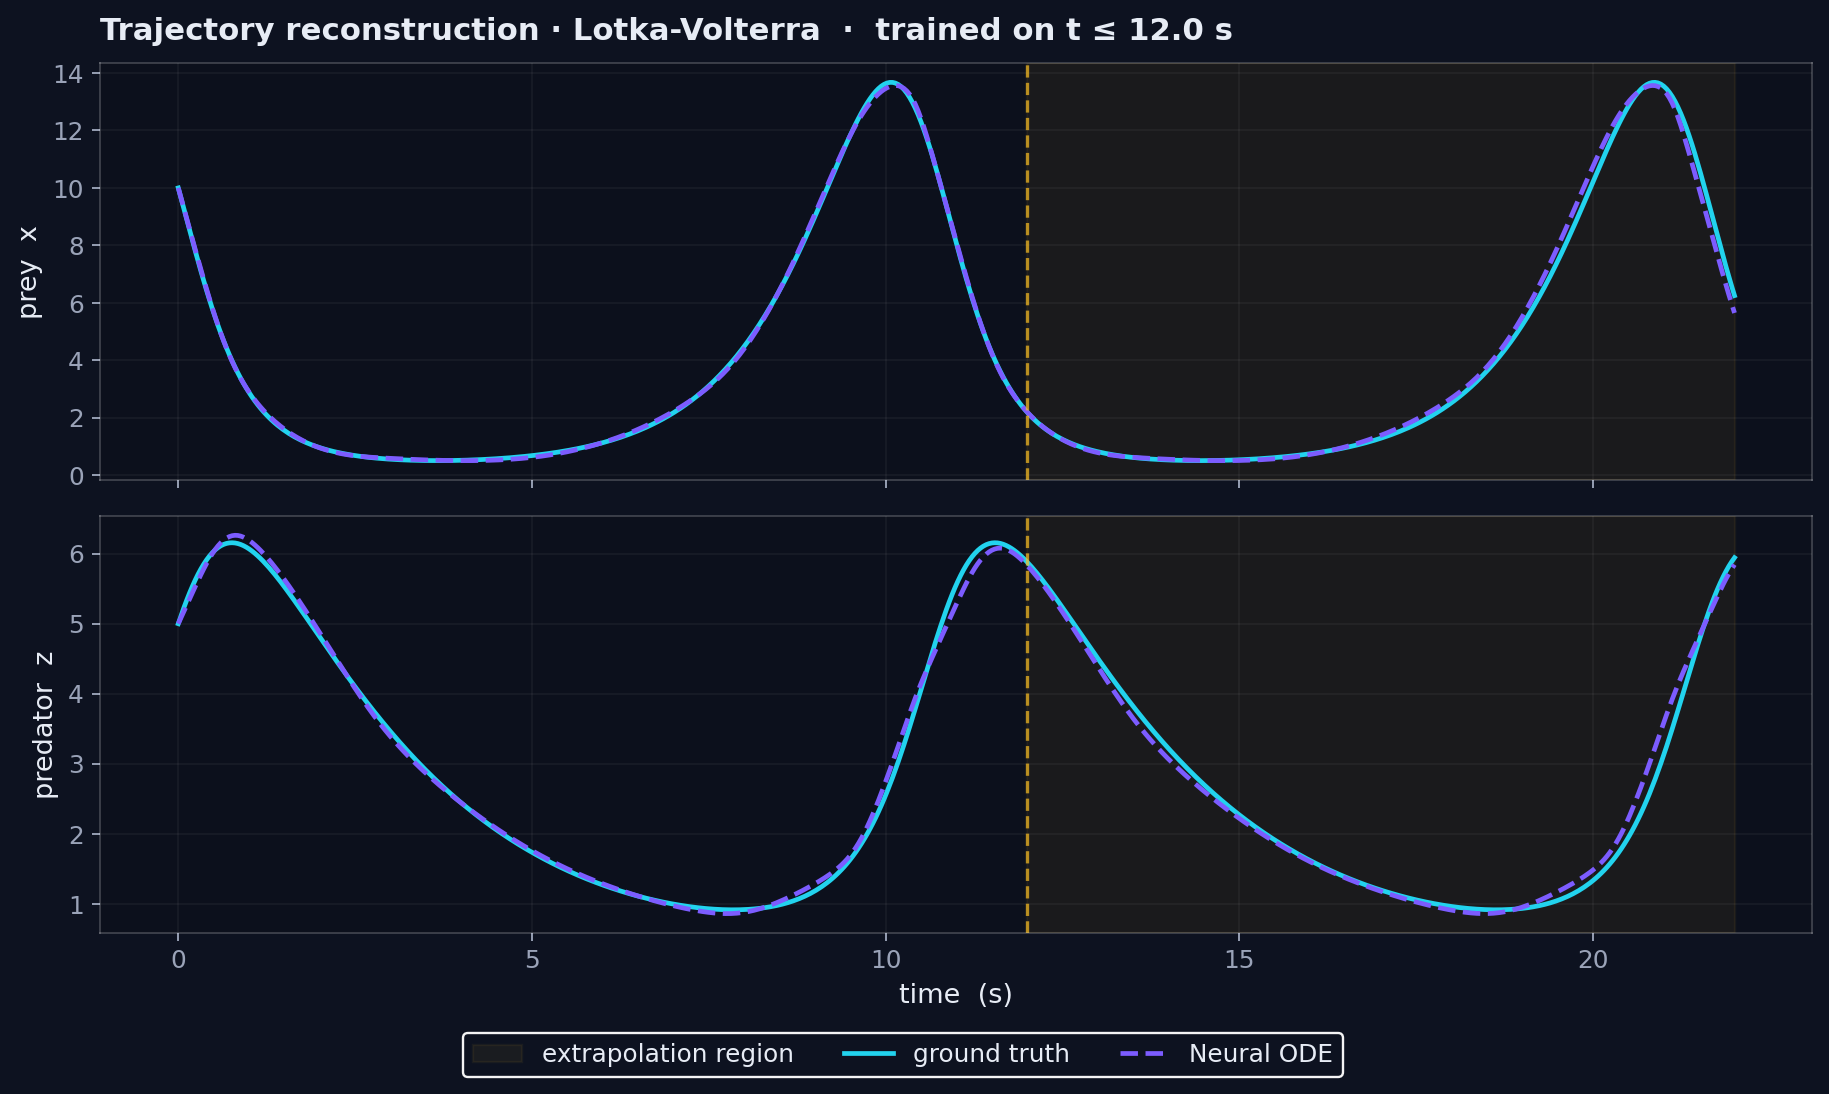
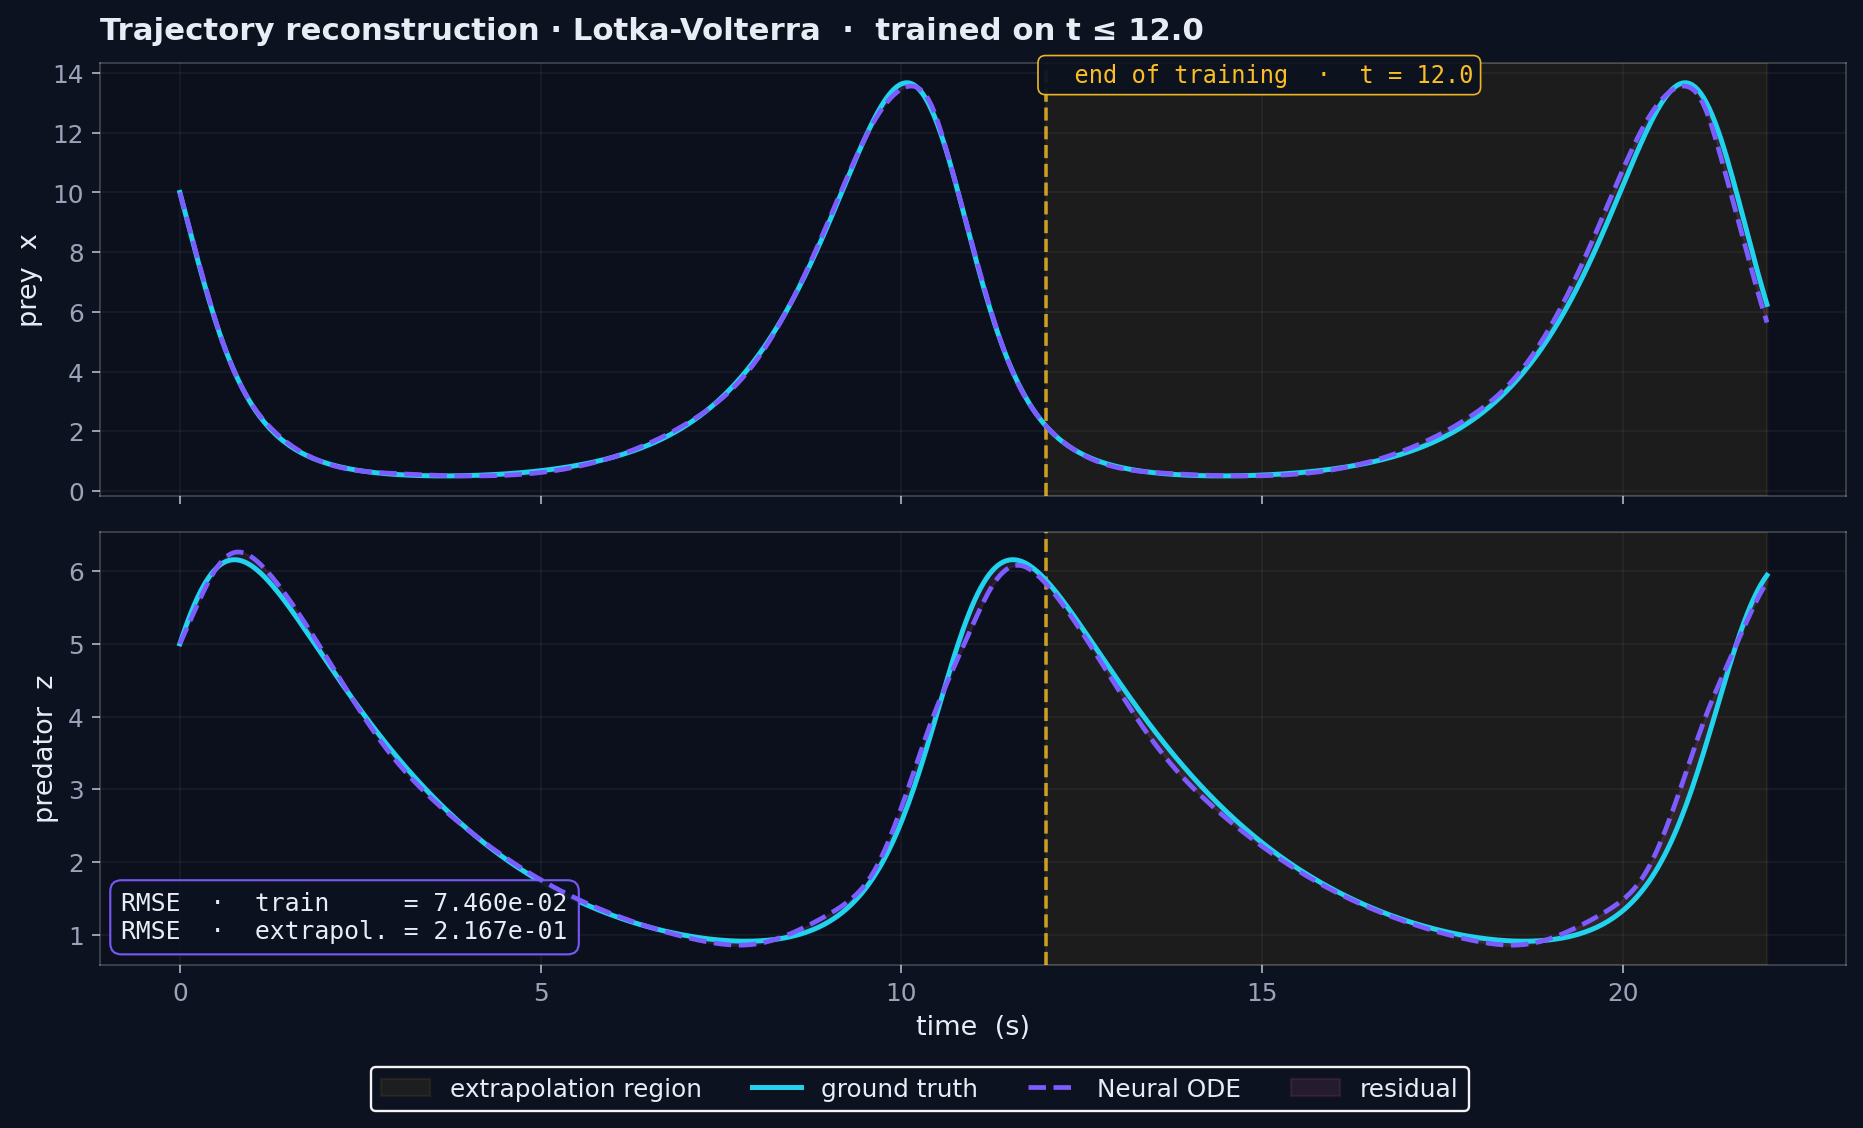
feat(p2): polished figures + raw-array dump + JSON export script
- src/plots.py: tighter annotations (initial/final/best loss with reduction
  factor, RMSE on train+extrap horizons, energy gap shading, phase-plane
  start/end markers and a colorbar for the learned-speed heatmap)
- main.py: dump compressed NPZ with trajectories, vector field grid,
  energy/invariant curves and loss history per system — feeds the website
- scripts/export_json.py: package the NPZ + metrics into a minified JSON
  consumed by the project page's Plotly charts
- README: rel_err_extrap pendulum 6.3% → 5.4% (peak-amplitude norm)

diff --git a/src/plots.py b/src/plots.py
@@ -94,30 +94,41 @@ def plot_loss(history, out_path: str, *, system_name: str = "pendulum",
     history = np.asarray(history)
     epochs = np.arange(len(history))
 
-    fig, ax = plt.subplots(figsize=(9.5, 4.6))
+    fig, ax = plt.subplots(figsize=(9.8, 4.8))
     fig.patch.set_facecolor(BG_PANEL)
 
-    ax.plot(epochs, history, color=PURPLE, lw=1.4, alpha=0.85)
+    ax.plot(epochs, history, color=PURPLE, lw=1.6, alpha=0.92,
+            label="training MSE")
     ax.set_yscale("log")
 
     if grow_every is not None and grow_every > 0:
+        first = True
         for x in range(grow_every, len(history), grow_every):
-            ax.axvline(x, color=AMBER, lw=0.6, alpha=0.35, ls="--")
-        ax.text(0.012, 0.05,
-                f"vertical ticks · curriculum window growth (every {grow_every} epochs)",
-                transform=ax.transAxes, fontsize=9.5, color=FG_1, family=MONO,
-                ha="left", va="bottom", style="italic")
+            ax.axvline(x, color=AMBER, lw=0.7, alpha=0.45, ls="--",
+                       label="curriculum window grows" if first else None)
+            first = False
 
+    initial_loss = float(history[0])
     final_loss = float(history[-1])
-    ax.text(0.99, 0.95, fr"final  MSE = {final_loss:.2e}",
+    best_loss = float(history.min())
+    reduction = initial_loss / max(final_loss, 1e-12)
+
+    info = (
+        f"initial MSE = {initial_loss:.2e}\n"
+        f"final   MSE = {final_loss:.2e}\n"
+        f"best    MSE = {best_loss:.2e}\n"
+        f"reduction   = {reduction:,.0f}×"
+    )
+    ax.text(0.985, 0.96, info,
             transform=ax.transAxes, ha="right", va="top",
-            fontsize=11, color=FG_0, family=MONO, fontweight="bold",
-            bbox=dict(boxstyle="round,pad=0.4", facecolor=BG_PANEL,
-                      edgecolor=PURPLE, linewidth=0.9, alpha=0.95))
+            fontsize=10.5, color=FG_0, family=MONO,
+            bbox=dict(boxstyle="round,pad=0.45", facecolor=BG_PANEL,
+                      edgecolor=PURPLE, linewidth=0.9, alpha=0.96))
 
     ax.set_xlabel("epoch")
     ax.set_ylabel("training MSE  (log scale)")
     ax.set_title(f"Training loss · {system_name}", loc="left", pad=10)
+    ax.legend(loc="lower left", framealpha=0.9, fontsize=10)
 
     fig.tight_layout()
     _save(fig, out_path)
@@ -134,22 +145,47 @@ def plot_time_series(t, y_true, y_pred, t_train_max, out_path: str,
     import matplotlib.pyplot as plt
 
     _style()
-    fig, axes = plt.subplots(2, 1, figsize=(11.0, 6.4), sharex=True)
+    fig, axes = plt.subplots(2, 1, figsize=(11.2, 6.6), sharex=True)
     fig.patch.set_facecolor(BG_PANEL)
 
+    train_mask = t <= t_train_max
+    extrap_mask = ~train_mask
+    train_residuals = float(np.sqrt(np.mean((y_pred[train_mask] - y_true[train_mask]) ** 2)))
+    extrap_residuals = float(np.sqrt(np.mean((y_pred[extrap_mask] - y_true[extrap_mask]) ** 2)))
+
     for i, ax in enumerate(axes):
-        ax.axvspan(t_train_max, t.max(), color=AMBER, alpha=0.06, zorder=0,
+        ax.axvspan(t_train_max, t.max(), color=AMBER, alpha=0.07, zorder=0,
                    label="extrapolation region" if i == 0 else None)
-        ax.plot(t, y_true[:, i], color=CYAN, lw=2.0, label="ground truth"
-                if i == 0 else None)
+        ax.plot(t, y_true[:, i], color=CYAN, lw=2.1, label="ground truth"
+                if i == 0 else None, zorder=3)
         ax.plot(t, y_pred[:, i], color=PURPLE, lw=2.0, ls="--",
-                label="Neural ODE" if i == 0 else None)
-        ax.axvline(t_train_max, color=AMBER, lw=1.4, ls="--", alpha=0.7)
+                label="Neural ODE" if i == 0 else None, zorder=4)
+        ax.fill_between(t, y_true[:, i], y_pred[:, i],
+                        color=PINK, alpha=0.10, zorder=2,
+                        label="residual" if i == 0 else None)
+        ax.axvline(t_train_max, color=AMBER, lw=1.5, ls="--", alpha=0.8)
         ax.set_ylabel(labels[i])
+
+    axes[0].text(t_train_max, axes[0].get_ylim()[1],
+                 f"  end of training  ·  t = {t_train_max:.1f}",
+                 ha="left", va="top",
+                 fontsize=10, color=AMBER, family=MONO,
+                 bbox=dict(boxstyle="round,pad=0.32", facecolor=BG_PANEL,
+                           edgecolor=AMBER, linewidth=0.7, alpha=0.95))
+
+    info = (
+        f"RMSE  ·  train     = {train_residuals:.3e}\n"
+        f"RMSE  ·  extrapol. = {extrap_residuals:.3e}"
+    )
+    axes[1].text(0.012, 0.05, info,
+                 transform=axes[1].transAxes, ha="left", va="bottom",
+                 fontsize=10.5, color=FG_0, family=MONO,
+                 bbox=dict(boxstyle="round,pad=0.45", facecolor=BG_PANEL,
+                           edgecolor=PURPLE, linewidth=0.9, alpha=0.95))
 
     axes[-1].set_xlabel("time  (s)")
     axes[0].set_title(
-        f"Trajectory reconstruction · {system_name}  ·  trained on t ≤ {t_train_max:.1f} s",
+        f"Trajectory reconstruction · {system_name}  ·  trained on t ≤ {t_train_max:.1f}",
         loc="left", pad=10,
     )
 
@@ -175,23 +211,36 @@ def plot_phase(y_true, y_pred, vector_field, out_path: str,
     import matplotlib.pyplot as plt
 
     _style()
-    fig, ax = plt.subplots(figsize=(8.4, 7.0))
+    fig, ax = plt.subplots(figsize=(8.6, 7.2))
     fig.patch.set_facecolor(BG_PANEL)
 
     X, Y, U, V = vector_field
     speed = np.sqrt(U.numpy() ** 2 + V.numpy() ** 2)
-    ax.streamplot(
+    strm = ax.streamplot(
         X.numpy(), Y.numpy(), U.numpy(), V.numpy(),
-        color=speed, cmap="magma", density=1.2, linewidth=0.85,
-        arrowsize=1.0,
+        color=speed, cmap="magma", density=1.25, linewidth=0.9,
+        arrowsize=1.05,
     )
 
-    ax.plot(y_true[:, 0], y_true[:, 1], color=CYAN, lw=2.4,
-            label="ground-truth orbit", zorder=4)
+    ax.plot(y_true[:, 0], y_true[:, 1], color=CYAN, lw=2.5,
+            label="ground-truth orbit", zorder=4, alpha=0.95)
     ax.plot(y_pred[:, 0], y_pred[:, 1], color=PURPLE, lw=2.0, ls="--",
-            label="Neural ODE orbit", zorder=5)
-    ax.scatter([y_true[0, 0]], [y_true[0, 1]], color=AMBER, s=70, zorder=6,
-               edgecolor=BG_PANEL, linewidth=1.5, label="initial condition")
+            label="Neural ODE orbit", zorder=5, alpha=0.95)
+
+    ax.scatter([y_true[0, 0]], [y_true[0, 1]], color=AMBER, s=110, zorder=7,
+               edgecolor=BG_PANEL, linewidth=1.8, label="initial state  t = 0",
+               marker="o")
+    ax.scatter([y_true[-1, 0]], [y_true[-1, 1]], color=CYAN, s=70, zorder=7,
+               edgecolor=BG_PANEL, linewidth=1.5, marker="s",
+               label="ground-truth final")
+    ax.scatter([y_pred[-1, 0]], [y_pred[-1, 1]], color=PURPLE, s=70, zorder=7,
+               edgecolor=BG_PANEL, linewidth=1.5, marker="D",
+               label="Neural ODE final")
+
+    cbar = fig.colorbar(strm.lines, ax=ax, pad=0.02, shrink=0.88, aspect=28)
+    cbar.set_label("learned speed  ‖f$_θ$‖", color=FG_1)
+    cbar.ax.yaxis.set_tick_params(color=FG_1, labelcolor=FG_1)
+    cbar.outline.set_edgecolor(SPINE)
 
     ax.set_xlabel(axis_labels[0])
     ax.set_ylabel(axis_labels[1])
@@ -213,27 +262,39 @@ def plot_energy(t, energy_true, energy_pred, t_train_max, out_path: str,
     import matplotlib.pyplot as plt
 
     _style()
-    fig, ax = plt.subplots(figsize=(9.5, 4.8))
+    fig, ax = plt.subplots(figsize=(9.8, 5.0))
     fig.patch.set_facecolor(BG_PANEL)
 
-    ax.axvspan(t_train_max, t.max(), color=AMBER, alpha=0.06, zorder=0)
-    ax.plot(t, energy_true, color=CYAN, lw=2.2, label="ground truth")
-    ax.plot(t, energy_pred, color=PURPLE, lw=2.0, ls="--", label="Neural ODE")
-    ax.axvline(t_train_max, color=AMBER, lw=1.4, ls="--", alpha=0.7)
+    ax.axvspan(t_train_max, t.max(), color=AMBER, alpha=0.07, zorder=0,
+               label="extrapolation region")
+    ax.fill_between(t, energy_true, energy_pred,
+                    color=PINK, alpha=0.13, zorder=1,
+                    label="energy gap")
+    ax.plot(t, energy_true, color=CYAN, lw=2.3, label="ground truth", zorder=3)
+    ax.plot(t, energy_pred, color=PURPLE, lw=2.0, ls="--",
+            label="Neural ODE", zorder=4)
+    ax.axvline(t_train_max, color=AMBER, lw=1.5, ls="--", alpha=0.8)
 
-    drift = float(np.abs(energy_pred[-1] - energy_true[-1]) /
-                  (np.abs(energy_true[-1]) + 1e-12))
-    ax.text(0.012, 0.05,
-            fr"final  |dE / E| = {drift:.2%}",
+    drift_final = float(np.abs(energy_pred[-1] - energy_true[-1]) /
+                        (np.abs(energy_true[-1]) + 1e-12))
+    train_mask = t <= t_train_max
+    drift_train_mean = float(np.mean(np.abs(energy_pred[train_mask] - energy_true[train_mask]) /
+                                     (np.abs(energy_true[train_mask]) + 1e-12)))
+
+    info = (
+        f"|ΔE/E|   ·  train mean = {drift_train_mean:.2%}\n"
+        f"|ΔE/E|   ·  final t    = {drift_final:.2%}"
+    )
+    ax.text(0.012, 0.05, info,
             transform=ax.transAxes, ha="left", va="bottom",
-            fontsize=11, color=FG_0, family=MONO, fontweight="bold",
-            bbox=dict(boxstyle="round,pad=0.4", facecolor=BG_PANEL,
+            fontsize=10.5, color=FG_0, family=MONO,
+            bbox=dict(boxstyle="round,pad=0.45", facecolor=BG_PANEL,
                       edgecolor=PURPLE, linewidth=0.9, alpha=0.95))
 
     ax.set_xlabel("time  (s)")
     ax.set_ylabel(ylabel)
     ax.set_title(title, loc="left", pad=10)
-    ax.legend(loc="upper right", framealpha=0.96, fontsize=10)
+    ax.legend(loc="upper right", framealpha=0.96, fontsize=10, ncol=2)
 
     fig.tight_layout()
     _save(fig, out_path)

diff --git a/scripts/export_json.py b/scripts/export_json.py
@@ -1,0 +1,99 @@
+"""Export trained-model arrays + metrics to JSON for the portfolio site.
+
+The output JSON is consumed by Plotly charts on the project detail page
+(``website/projects/02-neural-odes.html``).
+
+Usage:
+    python -m scripts.export_json
+    python -m scripts.export_json --out ../website/assets/data/02-neural-odes.json
+"""
+
+from __future__ import annotations
+
+import argparse
+import json
+from pathlib import Path
+
+import numpy as np
+
+
+def _thin(arr: np.ndarray, max_points: int) -> np.ndarray:
+    """Subsample along the leading axis to cap file size."""
+    if arr.shape[0] <= max_points:
+        return arr
+    step = max(1, arr.shape[0] // max_points)
+    return arr[::step]
+
+
+def _load_metrics(path: Path) -> dict:
+    with open(path) as f:
+        summary = json.load(f)
+    out = {}
+    for exp in summary.get("experiments", []):
+        out[exp["system"]] = exp
+    return out
+
+
+def _system_payload(npz_path: Path, *, max_traj: int = 400, max_loss: int = 1200,
+                    max_vf: int = 24) -> dict:
+    z = np.load(npz_path)
+    t = _thin(z["t"], max_traj)
+    y_true = _thin(z["y_true"], max_traj)
+    y_pred = _thin(z["y_pred"], max_traj)
+
+    payload = {
+        "t": t.tolist(),
+        "y_true": y_true.tolist(),
+        "y_pred": y_pred.tolist(),
+        "loss_history": _thin(z["loss_history"], max_loss).tolist(),
+        "vf": {
+            "X": z["vf_X"].tolist(),
+            "Y": z["vf_Y"].tolist(),
+            "U": z["vf_U"].tolist(),
+            "V": z["vf_V"].tolist(),
+        },
+        "t_train_max": float(z["t_train_max"]),
+        "t_full_max": float(z["t_full_max"]),
+        "grow_every": int(z["grow_every"]),
+        "noise_obs": float(z["noise_obs"]),
+    }
+
+    if "energy_true" in z.files:
+        payload["energy_true"] = _thin(z["energy_true"], max_traj).tolist()
+        payload["energy_pred"] = _thin(z["energy_pred"], max_traj).tolist()
+    if "invariant_true" in z.files:
+        payload["invariant_true"] = _thin(z["invariant_true"], max_traj).tolist()
+        payload["invariant_pred"] = _thin(z["invariant_pred"], max_traj).tolist()
+
+    return payload
+
+
+def main(out_path: str = "../website/assets/data/02-neural-odes.json",
+         data_dir: str = "data") -> None:
+    data_root = Path(data_dir)
+
+    metrics = _load_metrics(data_root / "metrics.json")
+    pendulum = _system_payload(data_root / "pendulum_arrays.npz")
+    lotka = _system_payload(data_root / "lotka_arrays.npz")
+
+    bundle = {
+        "metrics": metrics,
+        "pendulum": pendulum,
+        "lotka": lotka,
+    }
+
+    out = Path(out_path)
+    out.parent.mkdir(parents=True, exist_ok=True)
+    with open(out, "w") as f:
+        json.dump(bundle, f, separators=(",", ":"))
+
+    size_kb = out.stat().st_size / 1024
+    print(f"[ok] {out}  ({size_kb:.1f} KB)")
+
+
+if __name__ == "__main__":
+    parser = argparse.ArgumentParser(description=__doc__)
+    parser.add_argument("--out", default="../website/assets/data/02-neural-odes.json")
+    parser.add_argument("--data-dir", default="data")
+    args = parser.parse_args()
+    main(out_path=args.out, data_dir=args.data_dir)

diff --git a/main.py b/main.py
@@ -99,6 +99,24 @@ def run_pendulum(out_dir: Path, data_dir: Path, seed: int = 0) -> dict:
     energy_drift = float(abs(energy_pred[-1] - energy_true[-1]) /
                          (abs(energy_true[-1]) + 1e-12))
 
+    np.savez_compressed(
+        data_dir / "pendulum_arrays.npz",
+        t=ev.t.astype(np.float32),
+        y_true=ev.y_true.astype(np.float32),
+        y_pred=ev.y_pred.astype(np.float32),
+        energy_true=energy_true.astype(np.float32),
+        energy_pred=energy_pred.astype(np.float32),
+        loss_history=np.asarray(res.loss_history, dtype=np.float32),
+        vf_X=vf[0].numpy().astype(np.float32),
+        vf_Y=vf[1].numpy().astype(np.float32),
+        vf_U=vf[2].numpy().astype(np.float32),
+        vf_V=vf[3].numpy().astype(np.float32),
+        t_train_max=np.float32(t_train_max),
+        t_full_max=np.float32(t_full_max),
+        grow_every=np.int32(cfg.grow_every),
+        noise_obs=np.float32(noise),
+    )
+
     metrics = dict(
         system="damped_pendulum",
         n_params=res.n_params,
@@ -170,6 +188,24 @@ def run_lotka(out_dir: Path, data_dir: Path, seed: int = 0) -> dict:
                            str(out_dir / "lotka_phase.png"))
 
     invariant_drift = float(np.std(invariant_pred) / (np.abs(invariant_true.mean()) + 1e-12))
+
+    np.savez_compressed(
+        data_dir / "lotka_arrays.npz",
+        t=ev.t.astype(np.float32),
+        y_true=ev.y_true.astype(np.float32),
+        y_pred=ev.y_pred.astype(np.float32),
+        invariant_true=invariant_true.astype(np.float32),
+        invariant_pred=invariant_pred.astype(np.float32),
+        loss_history=np.asarray(res.loss_history, dtype=np.float32),
+        vf_X=vf[0].numpy().astype(np.float32),
+        vf_Y=vf[1].numpy().astype(np.float32),
+        vf_U=vf[2].numpy().astype(np.float32),
+        vf_V=vf[3].numpy().astype(np.float32),
+        t_train_max=np.float32(t_train_max),
+        t_full_max=np.float32(t_full_max),
+        grow_every=np.int32(cfg.grow_every),
+        noise_obs=np.float32(noise),
+    )
 
     metrics = dict(
         system="lotka_volterra",

diff --git a/README.md b/README.md
@@ -261,7 +261,7 @@ Four figures characterise the fit. All are produced by `python main.py`
 | Final training MSE | **1.5 · 10⁻⁴** (~6× the noise floor `(0.005)² = 2.5 · 10⁻⁵`) |
 | MSE on clean trajectory · training horizon | **1.4 · 10⁻⁴** |
 | MSE on clean trajectory · extrapolation half | **1.6 · 10⁻²** |
-| Relative extrapolation error `√MSE / max\|y\|` | **6.3 %** |
+| Relative extrapolation error `√MSE / max\|y\|` | **5.4 %** |
 | Final-time energy drift `\|ΔE/E\|` | **137 %** (interpretation in §6.4) |
 
 ### 6.1 · Training loss
